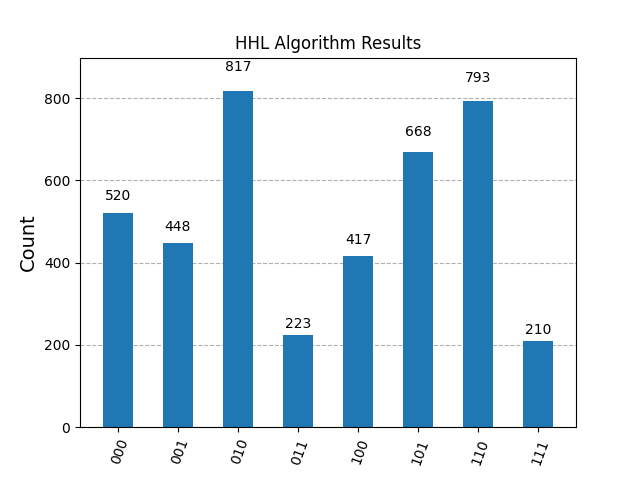
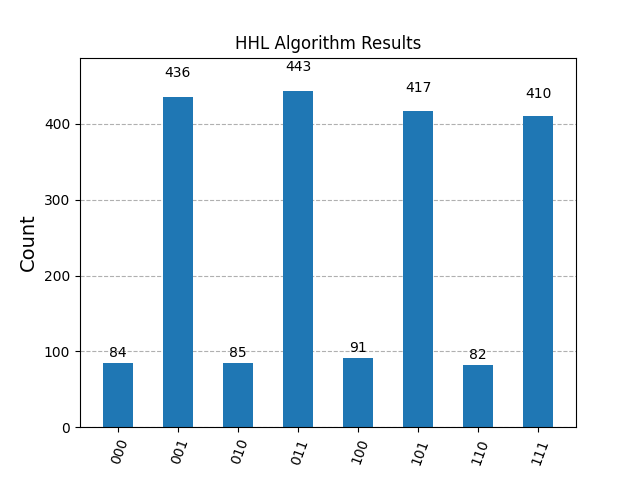
adwsfh

diff --git a/hhl_algorithm.py b/hhl_algorithm.py
@@ -1,7 +1,6 @@
 import numpy as np
 import math
 import matplotlib.pyplot as plt
-
 from qiskit import QuantumCircuit, QuantumRegister, ClassicalRegister, transpile
 from qiskit.visualization import plot_histogram
 from qiskit_aer import AerSimulator
@@ -10,9 +9,10 @@ from scipy.linalg import expm
 
 
 class HHLAlgorithm:
-    def __init__(self, matrix_A, vector_b, num_time_qubits=3, shots=1024):
+    def __init__(self, matrix_A, vector_b, num_time_qubits=5, shots=1024, debug=False):
         A = matrix_A
         self.original_dim = A.shape[0]
+        self.debug = debug
 
         d = self.original_dim
         n_needed = math.ceil(np.log2(d))
@@ -27,10 +27,8 @@ class HHLAlgorithm:
             b_padded[:d] = vector_b
             vector_b = b_padded
 
-        # Normalize input vector
         b_normalized = vector_b / np.linalg.norm(vector_b)
 
-        # Rescale A
         self.A_orig = A.copy()
         self.A_norm = np.linalg.norm(A)
         A = A / self.A_norm
@@ -51,7 +49,9 @@ class HHLAlgorithm:
         self.circuit = None
         self.counts = None
 
-        self.t = np.pi / np.max(np.abs(np.linalg.eigvals(A)))  # Improved t
+        self.t = np.pi / np.max(np.abs(np.linalg.eigvals(A)))
+        self.eigenvalues = np.linalg.eigvals(self.A_orig)
+        self.eigenvalues_scaled = np.linalg.eigvals(self.A)
 
     def create_input_state(self):
         qc_b = QuantumCircuit(self.num_system_qubits)
@@ -96,22 +96,28 @@ class HHLAlgorithm:
 
         self.phase_estimation(qc)
 
-        
-        
-
+        gain = 2.0
         for i in range(2 ** self.num_time_qubits):
             phase = i / (2 ** self.num_time_qubits)
             lam = 2 * np.pi * phase / self.t
-            if abs(lam) < 1e-10:
+            if abs(lam) < 0.1 or abs(lam) > 10.0:
                 continue
-            angle = 2 * np.arcsin(min(1.0, 0.5 / abs(lam)))
+
+            inv_lam = 1.0 / lam
+            angle = 2 * np.arcsin(min(1.0, gain * inv_lam / 2))
             controls = list(self.time_qr)
+
+            if self.debug:
+                bits = format(i, f"0{self.num_time_qubits}b")
+                print(f"Time state |{bits}>: phase = {phase:.4f}, ",
+                      f"\u03bb_scaled = {lam:.4f}, \u03bb_true = {lam * self.A_norm:.4f}, ",
+                      f"1/\u03bb = {inv_lam:.2f}, Ry angle = {angle:.4f}")
 
             bits = format(i, f"0{self.num_time_qubits}b")
             for j, bit in enumerate(bits):
                 if bit == '0':
                     qc.x(self.time_qr[j])
-            print(f"Time register state |{bits}⟩: phase={phase:.4f}, λ={lam:.4f}, angle={angle:.4f}")
+
             cry = RYGate(angle).control(num_ctrl_qubits=self.num_time_qubits)
             qc.append(cry, [*controls, self.ancilla_qr[0]])
 
@@ -144,14 +150,11 @@ class HHLAlgorithm:
         prob_dist = np.zeros(padded_dim)
 
         for outcome, count in self.counts.items():
-            # print(outcome, ":", count)
             if outcome[-1] == '1':
-                system_bits = outcome[:-1][::-1]
-                print(system_bits, "->", outcome, ":", count)
+                system_bits = outcome[1:][::-1]
                 index = int(system_bits, 2)
                 prob_dist[index] += count
                 total_success += count
-                # print(f'System bits are {system_bits}, index {index}, count {count}')
 
         if total_success == 0:
             print("No valid solution: ancilla was never measured as |1⟩.")
@@ -163,6 +166,7 @@ class HHLAlgorithm:
 
         solution_vector = solution_padded[:self.original_dim]
         solution_vector = solution_vector / np.linalg.norm(solution_vector)
+        solution_vector = solution_vector / self.A_norm
         return solution_vector
 
     def plot_results(self, filename="hhl_results.png"):
@@ -173,15 +177,41 @@ class HHLAlgorithm:
         plt.savefig(filename)
         print(f"Results histogram saved as '{filename}'.")
 
+    def simulate_statevector(self):
+        from qiskit_aer import Aer
+        backend = Aer.get_backend("statevector_simulator")
+        job = backend.run(transpile(self.circuit, backend))
+        statevector = job.result().get_statevector()
+        return statevector
+
+    def extract_postselected_solution(self, statevector):
+        dim = 2 ** (self.num_time_qubits + self.num_system_qubits + 1)
+        total_qubits = self.num_time_qubits + self.num_system_qubits + 1
+        system_qubits = self.num_system_qubits
+        ancilla_index = self.num_time_qubits + self.num_system_qubits
+
+        probs = np.abs(statevector.data) ** 2
+        sol = np.zeros(2 ** system_qubits)
+
+        for i, amp in enumerate(statevector.data):
+            if ((i >> ancilla_index) & 1) == 1:
+                system_state = (i >> 0) & ((1 << system_qubits) - 1)
+                sol[system_state] += np.abs(amp) ** 2
+
+        sol = np.sqrt(sol)
+        sol = sol / np.linalg.norm(sol)
+        return sol
+
 
 if __name__ == "__main__":
-    matrix_A = np.array([[1.0, 0.0, -3.0, 0.0],
-                         [0.0, 1.0, 0.0, -3.0],
-                         [-3.0, 0.0, -3.0, 0.0],
-                         [0.0, -3.0, 0.0, 1.0]])
-    vector_b = np.array([1.0, 1.0, 1.0, 1.0])
+    matrix_A = np.array([[4.0, 1.0, 0.0, 0.0],
+                         [1.0, 3.0, 1.0, 0.0],
+                         [0.0, 1.0, 3.0, 1.0],
+                         [0.0, 0.0, 1.0, 4.0]])
 
-    hhl_solver = HHLAlgorithm(matrix_A, vector_b, num_time_qubits=1, shots=2**12)
+    vector_b = np.array([1.0, 1.0, 1.0, 1.0]) / 2
+
+    hhl_solver = HHLAlgorithm(matrix_A, vector_b, num_time_qubits=5, shots=2048, debug=True)
     circuit = hhl_solver.build_circuit()
     print(circuit.draw(output="text"))
     counts = hhl_solver.run()
@@ -191,4 +221,21 @@ if __name__ == "__main__":
     print("\nHHL Solution:", x_hhl)
 
     x_exact = np.linalg.solve(matrix_A, vector_b)
-    print("\nExact Solution:", x_exact / np.linalg.norm(x_exact))
+    x_exact_normalized = x_exact / np.linalg.norm(x_exact)
+    print("\nExact Solution:", x_exact_normalized)
+
+    if x_hhl is not None:
+        fidelity = np.abs(np.vdot(x_hhl, x_exact_normalized))
+        print(f"\nFidelity with exact solution: {fidelity:.4f}")
+
+    print("\nEigenvalues of original A:", np.round(hhl_solver.eigenvalues, 4))
+    print("Eigenvalues of scaled A (used in phase estimation):", np.round(hhl_solver.eigenvalues_scaled, 4))
+
+    print("\n[Debug] Running ideal statevector simulation...")
+    statevector = hhl_solver.simulate_statevector()
+    print("Final statevector (truncated):", statevector.data[:8])
+
+    post_selected = hhl_solver.extract_postselected_solution(statevector)
+    print("\nPostselected solution from statevector:", post_selected)
+    fidelity_post = np.abs(np.vdot(post_selected, x_exact_normalized))
+    print(f"Fidelity (postselected vs exact): {fidelity_post:.4f}")
